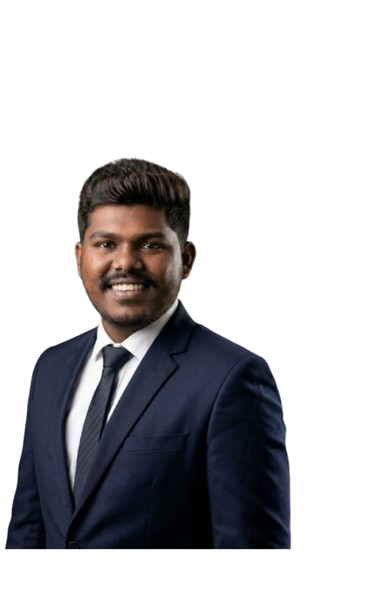
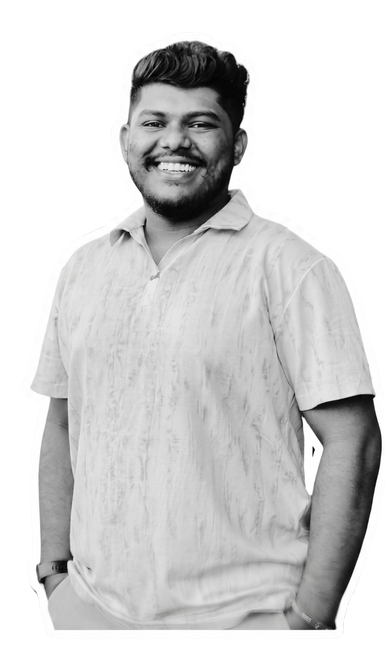
Update profile image and clean App.jsx

diff --git a/src/App.jsx b/src/App.jsx
@@ -1,10 +1,9 @@
-import React, { useState, useEffect } from 'react';
-import { Moon, Sun, Github, Linkedin, Instagram, Mail, Download, ExternalLink, Menu, X } from 'lucide-react';
+import { useState, useEffect } from 'react';
+import { Github, Linkedin, Instagram, Mail, ExternalLink, Menu, X } from 'lucide-react';
 import { personalInfo, techStack, projects, education, softSkills } from './portfolioData';
 import TechGlobe from './TechGlobe';
 import Slideshow from './components/Slideshow';
 function App() {
-  const [darkMode, setDarkMode] = useState(true);
   const [isMenuOpen, setIsMenuOpen] = useState(false);
   const [mousePos, setMousePos] = useState({ x: 0, y: 0 });
   const [contactForm, setContactForm] = useState({
@@ -71,16 +70,12 @@ function App() {
       setRoleIndex((prev) => (prev + 1) % roles.length);
     }, 4000);
     return () => clearInterval(interval);
-  }, []);
+  }, [roles.length]);
 
-  // Toggle theme
   useEffect(() => {
-    if (darkMode) {
-      document.documentElement.classList.add('dark');
-    } else {
-      document.documentElement.classList.remove('dark');
-    }
-  }, [darkMode]);
+    document.documentElement.classList.add('dark');
+    return () => document.documentElement.classList.remove('dark');
+  }, []);
 
   // Track mouse position for custom cursor
   useEffect(() => {
@@ -91,8 +86,6 @@ function App() {
     return () => window.removeEventListener('mousemove', handleMouseMove);
   }, []);
 
-  const toggleTheme = () => setDarkMode(!darkMode);
-  
   const scrollToSection = (id) => {
     setIsMenuOpen(false);
     const element = document.getElementById(id);
@@ -123,11 +116,11 @@ function App() {
   };
 
   return (
-    <div className="min-h-screen font-sans selection:bg-[#0ea5e9] selection:text-white bg-[#0a0a0a] text-white">
+    <div className="min-h-screen font-sans selection:bg-[#0ea5e9] selection:text-white bg-background-dark text-white">
       
       {/* Custom Cursor */}
       <div 
-        className="hidden lg:flex fixed pointer-events-none z-[100] w-4 h-4 rounded-full bg-[#0ea5e9] shadow-[0_0_15px_#0ea5e9] items-center justify-center transition-transform duration-75 ease-out"
+        className="hidden lg:flex fixed pointer-events-none z-100 w-4 h-4 rounded-full bg-[#0ea5e9] shadow-[0_0_15px_#0ea5e9] items-center justify-center transition-transform duration-75 ease-out"
         style={{ left: 0, top: 0, transform: `translate(${mousePos.x - 8}px, ${mousePos.y - 8}px)` }}
       >
         <div className="w-1.5 h-1.5 bg-white rounded-full"></div>
@@ -135,11 +128,11 @@ function App() {
       </div>
 
       {/* Navbar Component */}
-      <nav className="fixed top-0 w-full z-50 bg-[#0a0a0a]/90 backdrop-blur-md border-b border-gray-900 transition-colors duration-300">
+      <nav className="fixed top-0 w-full z-50 bg-background-dark/90 backdrop-blur-md border-b border-gray-900 transition-colors duration-300">
         <div className="max-w-7xl mx-auto px-4 sm:px-6 lg:px-8">
           <div className="flex justify-between items-center h-20">
             {/* Logo */}
-            <div className="flex-shrink-0 font-bold text-3xl tracking-tighter cursor-pointer text-white flex items-center" onClick={() => window.scrollTo(0, 0)}>
+            <div className="shrink-0 font-bold text-3xl tracking-tighter cursor-pointer text-white flex items-center" onClick={() => window.scrollTo(0, 0)}>
               EF<span className="text-[#0ea5e9]">.</span>dev
             </div>
             
@@ -168,7 +161,7 @@ function App() {
 
         {/* Mobile Navigation */}
         {isMenuOpen && (
-          <div className="md:hidden bg-[#0a0a0a] border-b border-gray-900">
+          <div className="md:hidden bg-background-dark border-b border-gray-900">
             <div className="px-2 pt-2 pb-3 space-y-1 sm:px-3">
               <button onClick={() => scrollToSection('about')} className="block w-full text-left px-3 py-2 rounded-md text-base font-medium text-gray-400 hover:text-white hover:bg-gray-900">About</button>
               <button onClick={() => scrollToSection('projects')} className="block w-full text-left px-3 py-2 rounded-md text-base font-medium text-gray-400 hover:text-white hover:bg-gray-900">Projects</button>
@@ -216,7 +209,7 @@ function App() {
           
           {/* Central Image with White Outline effect & Floating Icons */}
           <div className="relative mt-16 w-full max-w-2xl mx-auto aspect-square flex justify-center items-center">
-            <div className="relative z-10 w-[min(23.4rem,90vw)] h-[min(23.4rem,90vw)] md:w-[min(33.8rem,90vw)] md:h-[min(33.8rem,90vw)] flex items-center justify-center translate-x-8 md:translate-x-16 -translate-y-2 md:-translate-y-4">
+            <div className="relative z-10 w-[min(23.4rem,90vw)] h-[min(23.4rem,90vw)] md:w-[min(33.8rem,90vw)] md:h-[min(33.8rem,90vw)] flex items-center justify-center">
                <img 
                  src="profile.png" 
                  alt="Profile" 
@@ -227,7 +220,7 @@ function App() {
                  }}
                />
                {/* Fading bottom gradient overlay to blend with background */}
-               <div className="absolute bottom-0 left-0 w-full h-24 bg-gradient-to-t from-[#0a0a0a] to-transparent z-20 pointer-events-none"></div>
+               <div className="absolute bottom-0 left-0 w-full h-24 bg-linear-to-t from-background-dark to-transparent z-20 pointer-events-none"></div>
             </div>
 
             {/* Floating Tech Icons around image */}
@@ -246,8 +239,8 @@ function App() {
         </section>
 
         {/* About Section */}
-        <section id="about" className="py-24 px-4 sm:px-6 lg:px-8 bg-[#0a0a0a] relative">
-          <div className="absolute top-0 left-0 w-full h-px bg-gradient-to-r from-transparent via-gray-800 to-transparent"></div>
+        <section id="about" className="py-24 px-4 sm:px-6 lg:px-8 bg-background-dark relative">
+          <div className="absolute top-0 left-0 w-full h-px bg-linear-to-r from-transparent via-gray-800 to-transparent"></div>
           <div className="max-w-6xl mx-auto">
             <div className="text-center mb-16">
               <h2 className="text-3xl md:text-4xl font-bold mb-4">About <span className="text-[#0ea5e9]">Me</span></h2>
@@ -325,7 +318,7 @@ function App() {
                 <h3 className="text-2xl font-bold mb-6 text-white">Soft Skills</h3>
                 <div className="flex flex-wrap gap-3">
                   {softSkills.map((skill, index) => (
-                    <span key={index} className="px-4 py-2 bg-[#1a1a1c] text-gray-300 rounded-xl text-sm font-medium border border-gray-800 flex-grow text-center hover:border-[#0ea5e9]/50 transition-colors">
+                    <span key={index} className="px-4 py-2 bg-[#1a1a1c] text-gray-300 rounded-xl text-sm font-medium border border-gray-800 grow text-center hover:border-[#0ea5e9]/50 transition-colors">
                       {skill}
                     </span>
                   ))}
@@ -354,7 +347,7 @@ function App() {
                     
                     {/* Project Image */}
                     <div className="w-full md:w-1/2 group relative">
-                      <div className="absolute -inset-1 bg-gradient-to-r from-blue-500 to-purple-500 rounded-2xl blur opacity-25 group-hover:opacity-50 transition duration-1000 group-hover:duration-200"></div>
+                      <div className="absolute -inset-1 bg-linear-to-r from-blue-500 to-purple-500 rounded-2xl blur opacity-25 group-hover:opacity-50 transition duration-1000 group-hover:duration-200"></div>
                       {project.images && project.images.length > 0 ? (
                         <div className="relative">
                           <Slideshow images={project.images} />
@@ -479,7 +472,7 @@ function App() {
       </main>
 
       {/* Footer */}
-      <footer className="py-8 text-center border-t border-gray-200 dark:border-gray-800 bg-white dark:bg-[#0a0a0a]">
+      <footer className="py-8 text-center border-t border-gray-200 dark:border-gray-800 bg-white dark:bg-background-dark">
         <p className="text-gray-500 dark:text-gray-400 text-sm">
           &copy; {new Date().getFullYear()} Eshan Fernando. Designed & Built with ❤.
         </p>
